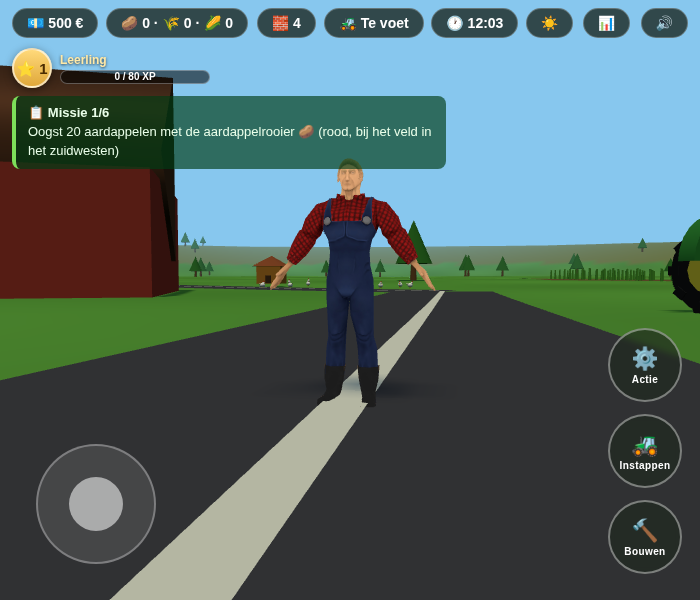
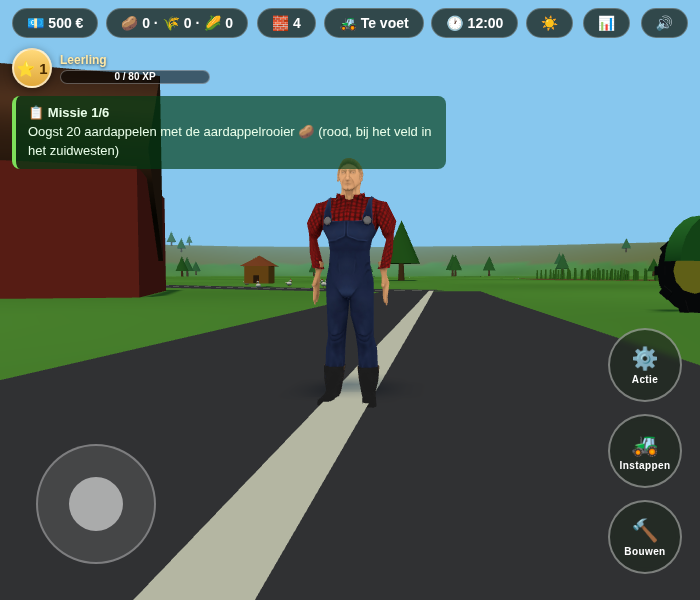
Rapproche les bras du corps (déformation du maillage)
Le modèle .glb étant statique (sans squelette), les bras écartés sont
corrigés en faisant pivoter les sommets des bras autour de l'épaule
(poids progressif pour éviter les cassures). Les bras retombent
naturellement le long du corps.

Claude-Session: https://claude.ai/code/session_01DwCG8YEj6A6GqMB6GLeeGx

diff --git a/src/farmer.js b/src/farmer.js
@@ -17,6 +17,7 @@ export function createFarmer() {
     farmerUrl,
     (gltf) => {
       const model = gltf.scene;
+      deformArms(model);            // rapproche les bras du corps (modèle sans rig)
       // échelle + pieds au sol + centrage
       let box = new THREE.Box3().setFromObject(model);
       const size = box.getSize(new THREE.Vector3());
@@ -44,6 +45,31 @@ export function createFarmer() {
   );
 
   return state;
+}
+
+// Rapproche les bras du corps en faisant pivoter les sommets des bras
+// autour de l'épaule (le modèle est un seul mesh statique, sans squelette).
+function deformArms(model) {
+  const THETA = 0.55, shoulderY = 0.58, sxR = 0.28, thresh = 0.28, band = 0.16;
+  model.traverse((o) => {
+    if (!o.isMesh || !o.geometry?.attributes?.position) return;
+    const p = o.geometry.attributes.position;
+    for (let i = 0; i < p.count; i++) {
+      let x = p.getX(i), y = p.getY(i);
+      const ax = Math.abs(x);
+      if (ax <= thresh || y < -0.4 || y > 0.66) continue; // uniquement les bras
+      const w = Math.min(1, (ax - thresh) / band);
+      const side = x > 0 ? 1 : -1;
+      const px = side * sxR, py = shoulderY;
+      const ang = -side * THETA * w;      // rotation vers l'axe du corps
+      const dx = x - px, dy = y - py;
+      const c = Math.cos(ang), s = Math.sin(ang);
+      p.setX(i, px + dx * c - dy * s);
+      p.setY(i, py + dx * s + dy * c);
+    }
+    p.needsUpdate = true;
+    o.geometry.computeVertexNormals();
+  });
 }
 
 // À appeler chaque frame : léger balancement de marche
